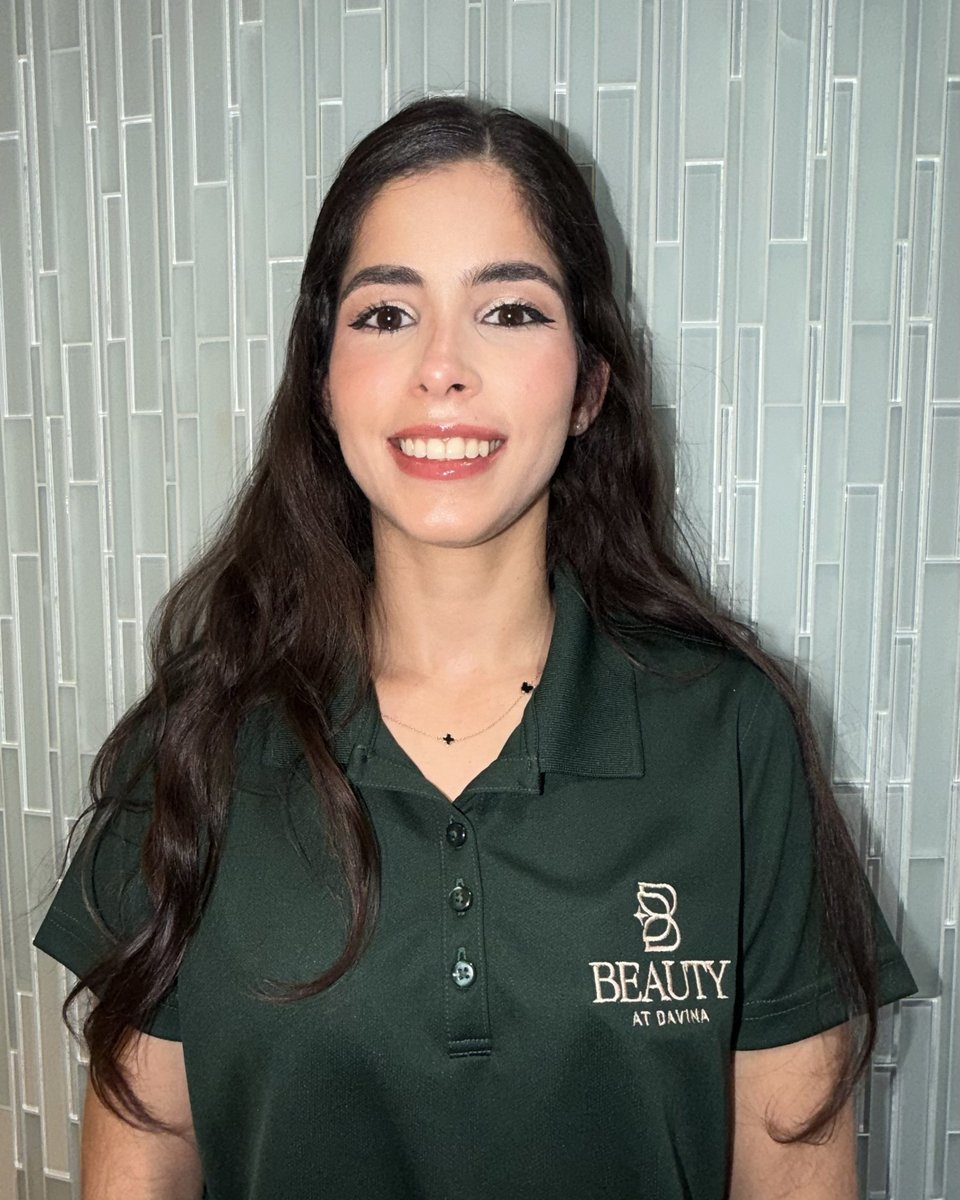
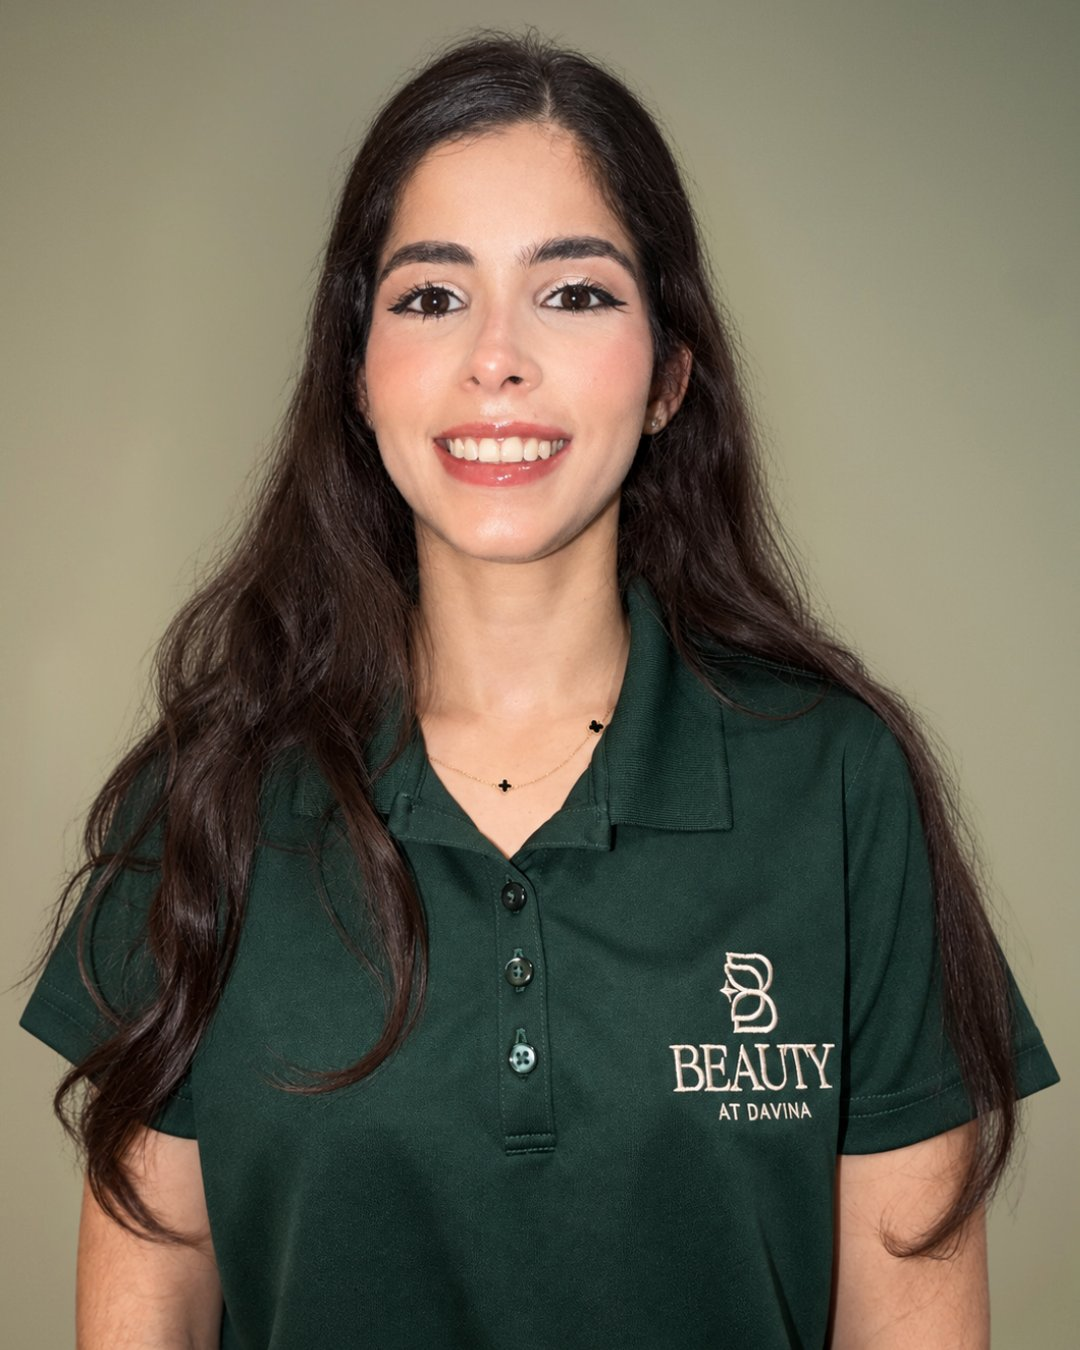
Replace team photos with matching-backdrop set from Kat's Drive folder
Per Kat's "Final Website Revisions" doc, item 3: replace the team
photos with new ones on a background matching Dra. Luisa's photo, for
visual harmony. Pulled the actual delivery folder ("Fotos Equipo") she
shared via Drive — all 5 photos (Luisa, Ernesto Pol, Tatiana Angulo,
Catherine Nunez, Cynthia Deschapell) share the same warm studio
backdrop, already retouched, already at the site's 4:5 card ratio
(1080x1350) with no cropping needed.

Applied across every page that shows team photos: Team page, Home
(Meet the Team grid + About section founder photo), About page
(founder quote avatar), and the Gallery page's Team tile. Bumped the
cache-busting version on every reference.

Item 2 of the same doc (replacing the Home Before/After AI-concept
image with a real client photo) is intentionally not done in this
commit — the 3 candidate photos in Kat's "Fotos Banner Home" folder
look like stock photography (isolated studio backdrops, unbranded
model, no connection to the real clinic/staff), which is what the doc
itself says not to use. Confirming with the client before touching it.

Claude-Session: https://claude.ai/code/session_0118kaurzjaWtfQKwkk8fLcD

diff --git a/index.html b/index.html
@@ -207,7 +207,7 @@
 <section id="about" class="home-about">
   <div class="home-about__grid">
     <div data-reveal class="home-about__media">
-      <div class="home-about__frame"><img src="assets/images/team-luisa-lopez-luciano.jpg?v=img1" alt="Dra. Luisa Lopez-Luciano, Physician &amp; Founder of Beauty at Davina" loading="lazy" style="object-position: top;"></div>
+      <div class="home-about__frame"><img src="assets/images/team-luisa-lopez-luciano.jpg?v=img2" alt="Dra. Luisa Lopez-Luciano, Physician &amp; Founder of Beauty at Davina" loading="lazy" style="object-position: top;"></div>
       <div class="home-about__stat-card">
         <div class="home-about__stat-card-num">20+</div>
         <div class="home-about__stat-card-label">Years in Homestead</div>
@@ -301,31 +301,31 @@
     </div>
     <div data-reveal-stagger class="team-grid">
       <div class="team-card">
-        <div class="team-card__media"><img src="assets/images/team-luisa-lopez-luciano.jpg?v=img1" alt="Dra. Luisa Lopez-Luciano" loading="lazy" style="object-position: top;"></div>
+        <div class="team-card__media"><img src="assets/images/team-luisa-lopez-luciano.jpg?v=img2" alt="Dra. Luisa Lopez-Luciano" loading="lazy" style="object-position: top;"></div>
         <h3>Dra. Luisa Lopez-Luciano</h3>
         <div class="team-card__role">Physician &amp; Founder</div>
         <p>Leading Beauty at Davina&rsquo;s care team with a longevity focused approach to medicine.</p>
       </div>
       <div class="team-card">
-        <div class="team-card__media"><img src="assets/images/team-ernesto-pol.jpg?v=img1" alt="Ernesto Pol" loading="lazy"></div>
+        <div class="team-card__media"><img src="assets/images/team-ernesto-pol.jpg?v=img2" alt="Ernesto Pol" loading="lazy"></div>
         <h3>Ernesto Pol</h3>
         <div class="team-card__role">Medical Assistant &middot; IV &amp; Wellness Specialist</div>
         <p>Guides patients through treatment preparation and aftercare.</p>
       </div>
       <div class="team-card">
-        <div class="team-card__media"><img src="assets/images/team-tatiana-angulo.jpg?v=img1" alt="Tatiana Angulo" loading="lazy"></div>
+        <div class="team-card__media"><img src="assets/images/team-tatiana-angulo.jpg?v=img2" alt="Tatiana Angulo" loading="lazy"></div>
         <h3>Tatiana Angulo</h3>
         <div class="team-card__role">Medical Assistant &middot; IV &amp; Wellness Specialist</div>
         <p>Supports patients from preparation through aftercare.</p>
       </div>
       <div class="team-card">
-        <div class="team-card__media"><img src="assets/images/team-catherine-nunez.jpg?v=img1" alt="Catherine Nunez" loading="lazy"></div>
+        <div class="team-card__media"><img src="assets/images/team-catherine-nunez.jpg?v=img2" alt="Catherine Nunez" loading="lazy"></div>
         <h3>Catherine Nunez</h3>
         <div class="team-card__role">Front Desk Coordinator</div>
         <p>Makes every visit welcoming, comfortable and seamless.</p>
       </div>
       <div class="team-card">
-        <div class="team-card__media"><img src="assets/images/team-cynthia-deschapell.jpg?v=img1" alt="Cynthia Deschapell" loading="lazy"></div>
+        <div class="team-card__media"><img src="assets/images/team-cynthia-deschapell.jpg?v=img2" alt="Cynthia Deschapell" loading="lazy"></div>
         <h3>Cynthia Deschapell</h3>
         <div class="team-card__role">Office Manager</div>
         <p>Keeps the practice running personal and well cared for.</p>

diff --git a/team.html b/team.html
@@ -61,31 +61,31 @@
 <section data-reveal class="section" style="padding-top:clamp(20px,3vw,40px);padding-bottom:clamp(48px,6vw,88px);">
   <div class="team-grid--8" data-reveal-stagger>
     <div class="team-card">
-      <div class="team-card__media"><img src="assets/images/team-luisa-lopez-luciano.jpg?v=img1" alt="Dra. Luisa Lopez-Luciano" loading="lazy" style="object-position: top;"></div>
+      <div class="team-card__media"><img src="assets/images/team-luisa-lopez-luciano.jpg?v=img2" alt="Dra. Luisa Lopez-Luciano" loading="lazy" style="object-position: top;"></div>
       <h3>Dra. Luisa Lopez-Luciano</h3>
       <div class="team-card__role">Physician &amp; Founder</div>
       <p>Leading Beauty at Davina&rsquo;s care team with a longevity focused approach to medicine.</p>
     </div>
     <div class="team-card">
-      <div class="team-card__media"><img src="assets/images/team-ernesto-pol.jpg?v=img1" alt="Ernesto Pol" loading="lazy"></div>
+      <div class="team-card__media"><img src="assets/images/team-ernesto-pol.jpg?v=img2" alt="Ernesto Pol" loading="lazy"></div>
       <h3>Ernesto Pol</h3>
       <div class="team-card__role">Medical Assistant &middot; IV Treatment &amp; Wellness Specialist</div>
       <p>Assists with aesthetic and laser services and guides patients through treatment preparation and aftercare.</p>
     </div>
     <div class="team-card">
-      <div class="team-card__media"><img src="assets/images/team-tatiana-angulo.jpg?v=img1" alt="Tatiana Angulo" loading="lazy"></div>
+      <div class="team-card__media"><img src="assets/images/team-tatiana-angulo.jpg?v=img2" alt="Tatiana Angulo" loading="lazy"></div>
       <h3>Tatiana Angulo</h3>
       <div class="team-card__role">Medical Assistant &middot; IV Treatment &amp; Wellness Specialist</div>
       <p>Supports patient preparation and aftercare so every visit feels smooth, informed and personalized.</p>
     </div>
     <div class="team-card">
-      <div class="team-card__media"><img src="assets/images/team-catherine-nunez.jpg?v=img1" alt="Catherine Nunez" loading="lazy"></div>
+      <div class="team-card__media"><img src="assets/images/team-catherine-nunez.jpg?v=img2" alt="Catherine Nunez" loading="lazy"></div>
       <h3>Catherine Nunez</h3>
       <div class="team-card__role">Front Desk Coordinator &middot; Wellness Ambassador</div>
       <p>Coordinates scheduling and treatment information so your visit is welcoming and seamless from the start.</p>
     </div>
     <div class="team-card">
-      <div class="team-card__media"><img src="assets/images/team-cynthia-deschapell.jpg?v=img1" alt="Cynthia Deschapell" loading="lazy"></div>
+      <div class="team-card__media"><img src="assets/images/team-cynthia-deschapell.jpg?v=img2" alt="Cynthia Deschapell" loading="lazy"></div>
       <h3>Cynthia Deschapell</h3>
       <div class="team-card__role">Office Manager &middot; Patient Experience Leader</div>
       <p>Oversees the day to day flow of the practice, keeping every visit organized, personal and well cared for.</p>

diff --git a/about.html b/about.html
@@ -72,7 +72,7 @@
     <div class="about-quote">
       <div class="about-quote__text">&ldquo;I&rsquo;ve always believed that longevity is the real goal of medicine, not just adding years, but making sure those years are healthy, vibrant ones. Aesthetics is simply one more tool to help patients get there.&rdquo;</div>
       <div class="about-quote__person">
-        <div class="about-quote__avatar"><img src="assets/images/team-luisa-lopez-luciano.jpg?v=img1" alt="Dra. Luisa Lopez-Luciano" loading="lazy" style="object-position: top;"></div>
+        <div class="about-quote__avatar"><img src="assets/images/team-luisa-lopez-luciano.jpg?v=img2" alt="Dra. Luisa Lopez-Luciano" loading="lazy" style="object-position: top;"></div>
         <div><div class="about-quote__name">Dra. Luisa Lopez-Luciano</div><div class="about-quote__role">Physician &amp; Founder</div></div>
       </div>
     </div>

diff --git a/gallery.html b/gallery.html
@@ -78,7 +78,7 @@
     <div class="gallery-grid__item"><img src="assets/images/gal-clinic.jpg?v=img5" alt="Body Composition" loading="lazy"><span class="gallery-grid__tag">Body Composition</span></div>
     -->
     <div class="gallery-grid__item"><img src="assets/images/gal-clinic.jpg?v=img2" alt="The Clinic" loading="lazy"><span class="gallery-grid__tag">The Clinic</span></div>
-    <div class="gallery-grid__item"><img src="assets/images/team-cynthia-deschapell.jpg?v=img1" alt="Our team" loading="lazy"><span class="gallery-grid__tag">Team</span></div>
+    <div class="gallery-grid__item"><img src="assets/images/team-cynthia-deschapell.jpg?v=img2" alt="Our team" loading="lazy"><span class="gallery-grid__tag">Team</span></div>
   </div>
 </section>
 
